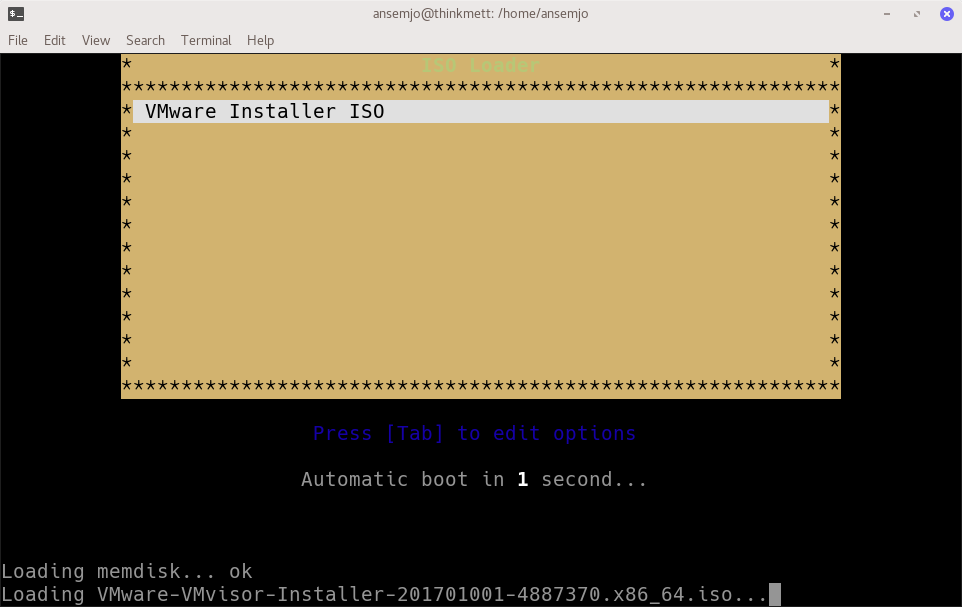
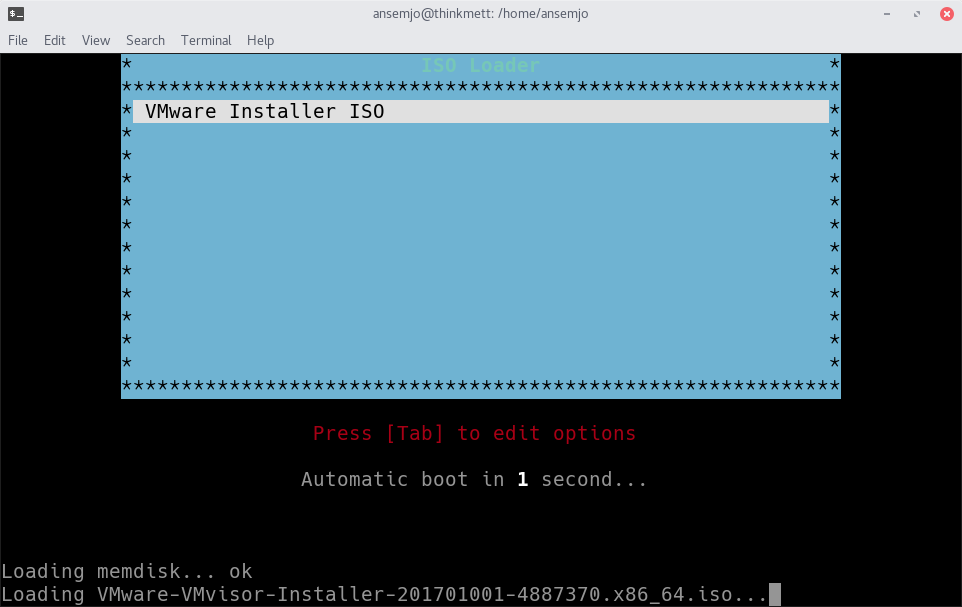
fix inverset colors on x10sba guide, replace serial code blocks
the serial console dumps were too wide for mobile and instead of
tweaking css more I decided to just use pictures aswell. also there is a
bug in gnome-screenshot, where window screenshots have inverted colors
https://bugs.launchpad.net/ubuntu/+source/gnome-screenshot/+bug/1672716

fixed with: convert a.png -separate -swap 0,2 -combine b.png

diff --git a/content/post/install-esxi-6.5-on-a-supermicro-x10sba.md b/content/post/install-esxi-6.5-on-a-supermicro-x10sba.md
@@ -16,8 +16,6 @@ tags:
   - serial-console
 ---
 
-<style> .hack pre code { font-size: 0.9rem; } </style>
-
 Trying to install VMware ESXi on a number of Intel Bay-Trail boards [apparently]
 fails with a hanged installation right after a message like `Relocating modules
 and starting the kernel`. There's multiple [forum posts] around the internet
@@ -59,32 +57,7 @@ should also increase the baud rate to something sensible like 115200 in the
 advanced features of the FTDI chip in your nullmodem cable but these settings
 work great for me:
 
-```
-       Aptio Setup Utility - Copyright (C) 2013 American Megatrends, Inc.
-       Advanced
-/----------------------------------------------------+-------------------------\
-|  COM1                                              |Emulation: ANSI:         |
-|  Console Redirection Settings                      |Extended ASCII char      |
-|                                                    |set. VT100: ASCII char   |
-|  Terminal Type           [VT100+]                  |set. VT100+: Extends     |
-|  Bits per second         [115200]                  |VT100 to support color,  |
-|  Data Bits               [8]                       |function keys, etc.      |
-|  Parity                  [None]                    |VT-UTF8: Uses UTF8       |
-|  Stop Bits               [1]                       |encoding to map Unicode  |
-|  Flow Control            [None]                    |chars onto 1 or more     |
-|  VT-UTF8 Combo Key Sup   [Enabled]                 |-------------------------|
-|  Recorder Mode           [Disabled]                |><: Select Screen        |
-|  Resolution 100x31       [Disabled]                |^v: Select Item          |
-|  Legacy OS Redirection   [80x24]                   |Enter: Select            |
-|  Putty KeyPad            [VT100]                   |+/-: Change Opt.         |
-|  Redirection After BIO   [Always Enable]           |F1: General Help         |
-|                                                    |F2: Previous Values      |
-|                                                    |F3: Optimized Defaults   |
-|                                                    |F4: Save & Exit          |
-|                                                    |ESC: Exit                |
-\----------------------------------------------------+-------------------------/
-Version 2.16.1242. Copyright (C) 2013 American Megatrends, Inc.
-```
+![](/images/install-esxi-6.5-on-a-supermicro-x10sba/6.png)
 
 To connect from my laptop, I use [picocom](https://linux.die.net/man/8/picocom)
 after adding my user to the `uucp` group:
@@ -99,32 +72,7 @@ serial and reach the BIOS Setup and then disable the `Integrated Graphic Device`
 under `Advanced > Chipset Configuration > North Bridge > Graphics
 Configuration`:
 
-```
-       Aptio Setup Utility - Copyright (C) 2013 American Megatrends, Inc.
-          Advanced
-/----------------------------------------------------+-------------------------\
-|  GOP Configuration                                 |Enable : Enable          |
-|  GOP Driver              [Disabled]                |Integrated Graphics      |
-|                                                    |Device (IGD) when        |
-|  Graphics Configuration                            |selected as the Primary  |
-|                                                    |Video Adaptor. Disable:  |
-|  Integrated Graphics D   [Disabled]                |Always disbale IGD       |
-|                                                    |                         |
-|                                                    |                         |
-|                                                    |                         |
-|                                                    |-------------------------|
-|                                                    |><: Select Screen        |
-|                                                    |^v: Select Item          |
-|                                                    |Enter: Select            |
-|                                                    |+/-: Change Opt.         |
-|                                                    |F1: General Help         |
-|                                                    |F2: Previous Values      |
-|                                                    |F3: Optimized Defaults   |
-|                                                    |F4: Save & Exit          |
-|                                                    |ESC: Exit                |
-\----------------------------------------------------+-------------------------/
-        Version 2.16.1242. Copyright (C) 2013 American Megatrends, Inc.
-```
+![](/images/install-esxi-6.5-on-a-supermicro-x10sba/7.png)
 
 I am actually not sure if this is required. But I disabled it and had not
 more problems during installation. And since I now had a working serial
@@ -269,31 +217,6 @@ or legacy BIOS mode anymore either, since you should see output on the serial
 console as soon as the VMKernel starts initializing (which takes a little more
 than a minute in my case).
 
-```
-┌──────────────────────────────────────────────────────────────────────────────┐
-│                                                                              │
-│                                                                              │
-│                                                                              │
-│                                                                              │
-│       VMware ESXi 6.5.0 (VMKernel Release Build 4887370)                     │
-│                                                                              │
-│       Supermicro X10SBA                                                      │
-│                                                                              │
-│       Intel(R) Celeron(R) CPU J1900 @ 1.99GHz                                │
-│       15.9 GiB Memory                                                        │
-│                                                                              │
-│                                                                              │
-│       Download tools to manage this host from:                               │
-│       http://<redacted>/                                                     │
-│       http://<redacted>/ (DHCP)                                              │
-│       http://[<redacted>]/ (STATIC)                                          │
-│       http://[<redacted>]/ (AUTOCONF)                                        │
-│       http://[<redacted>]/ (AUTOCONF)                                        │
-│                                                                              │
-│                                                                              │
-│                                                                              │
-│ <F2> Customize System/View Logs                      <F12> Shut Down/Restart │
-└──────────────────────────────────────────────────────────────────────────────┘
-```
+![](/images/install-esxi-6.5-on-a-supermicro-x10sba/5.png)
 
 Voilà!
